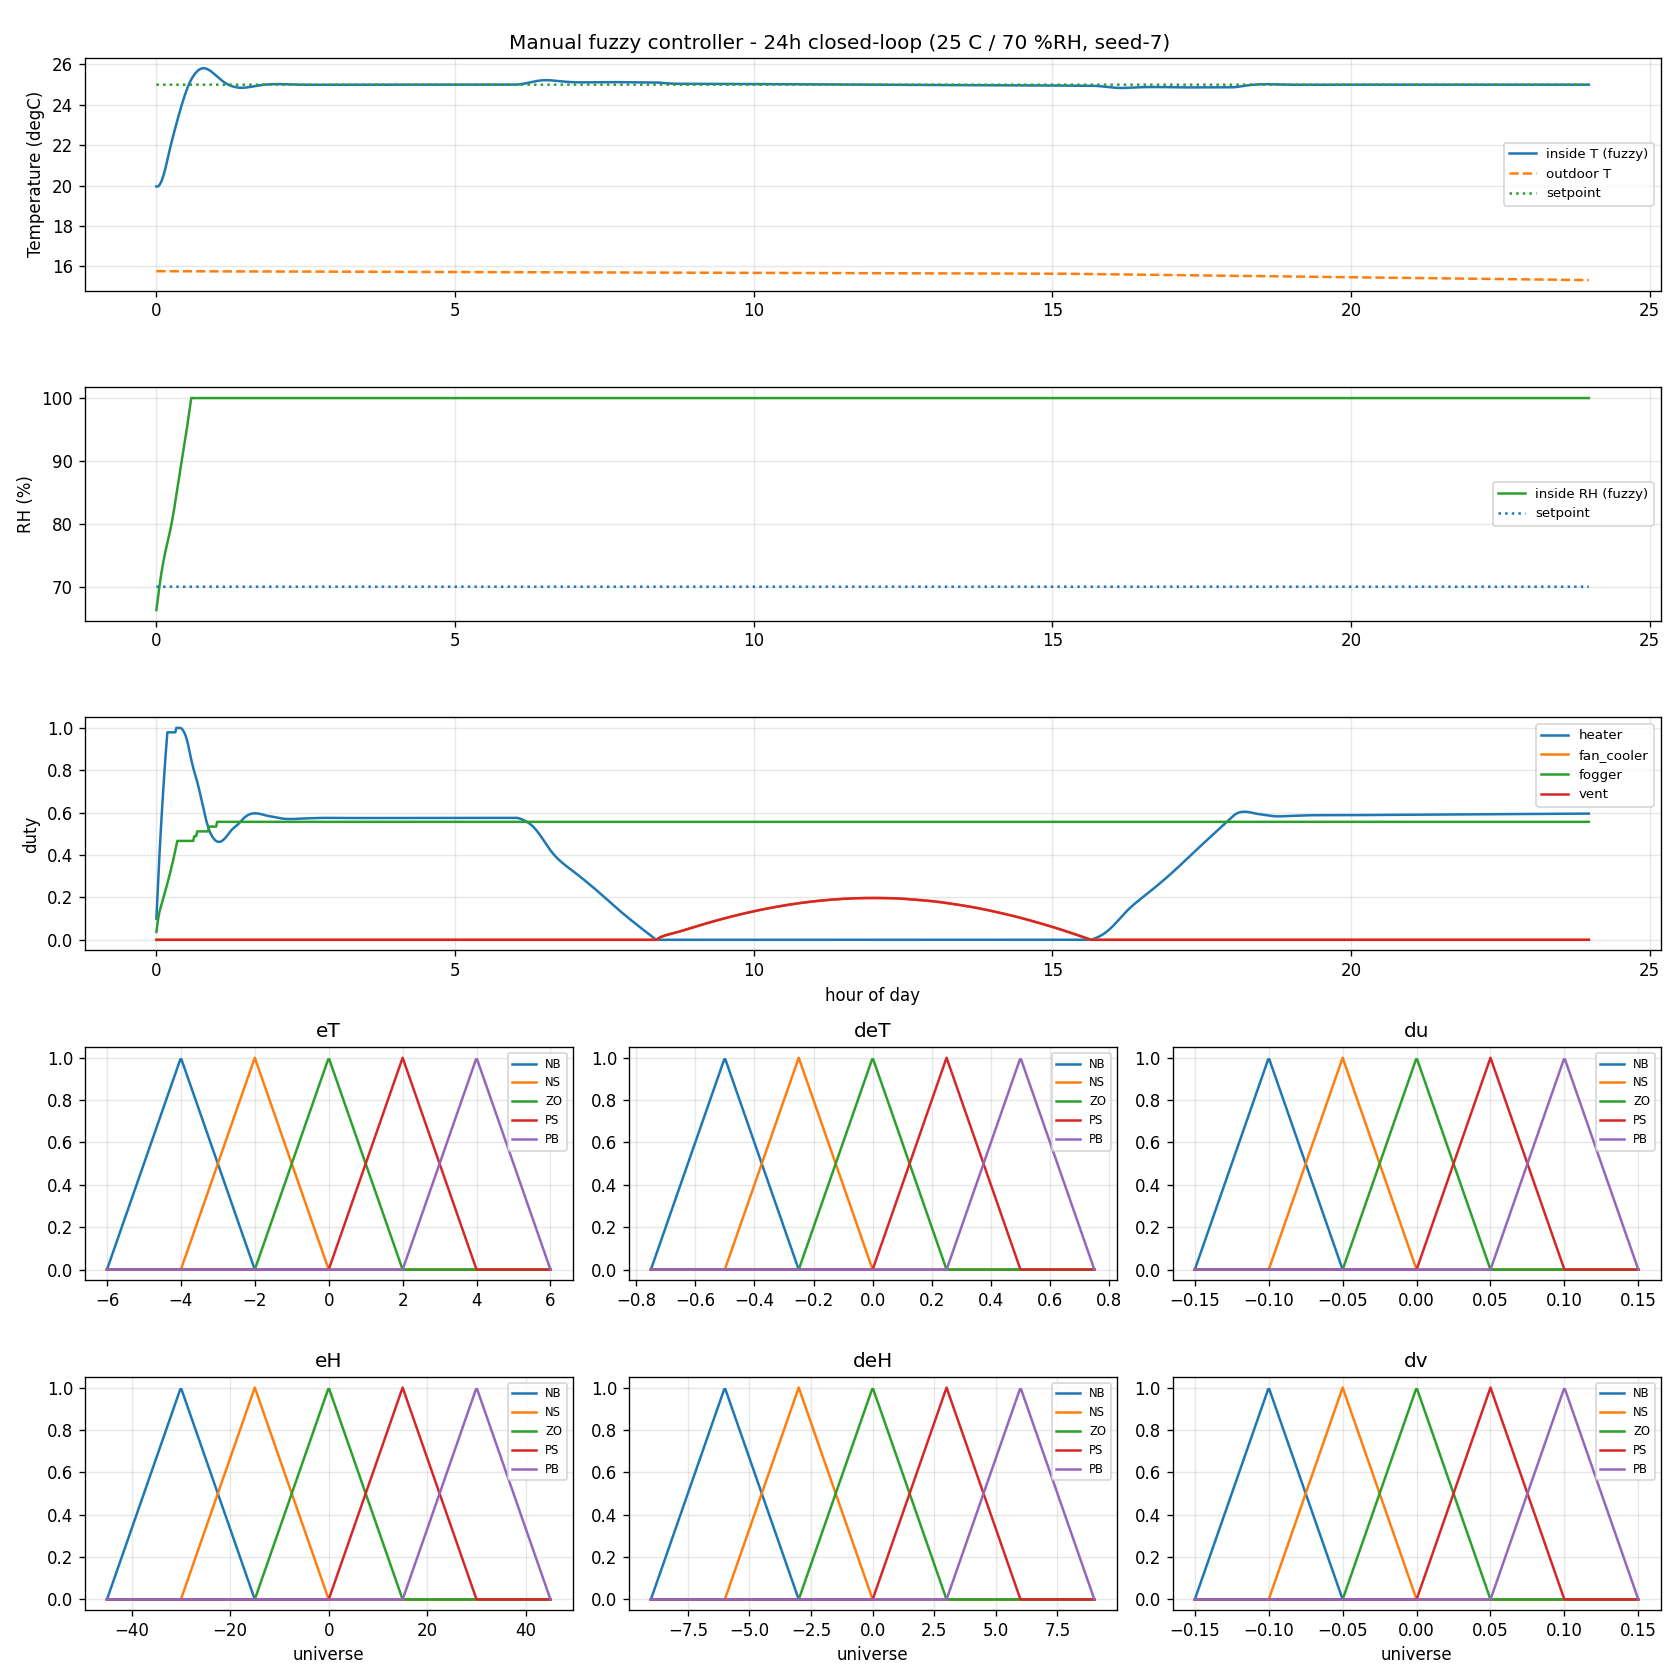
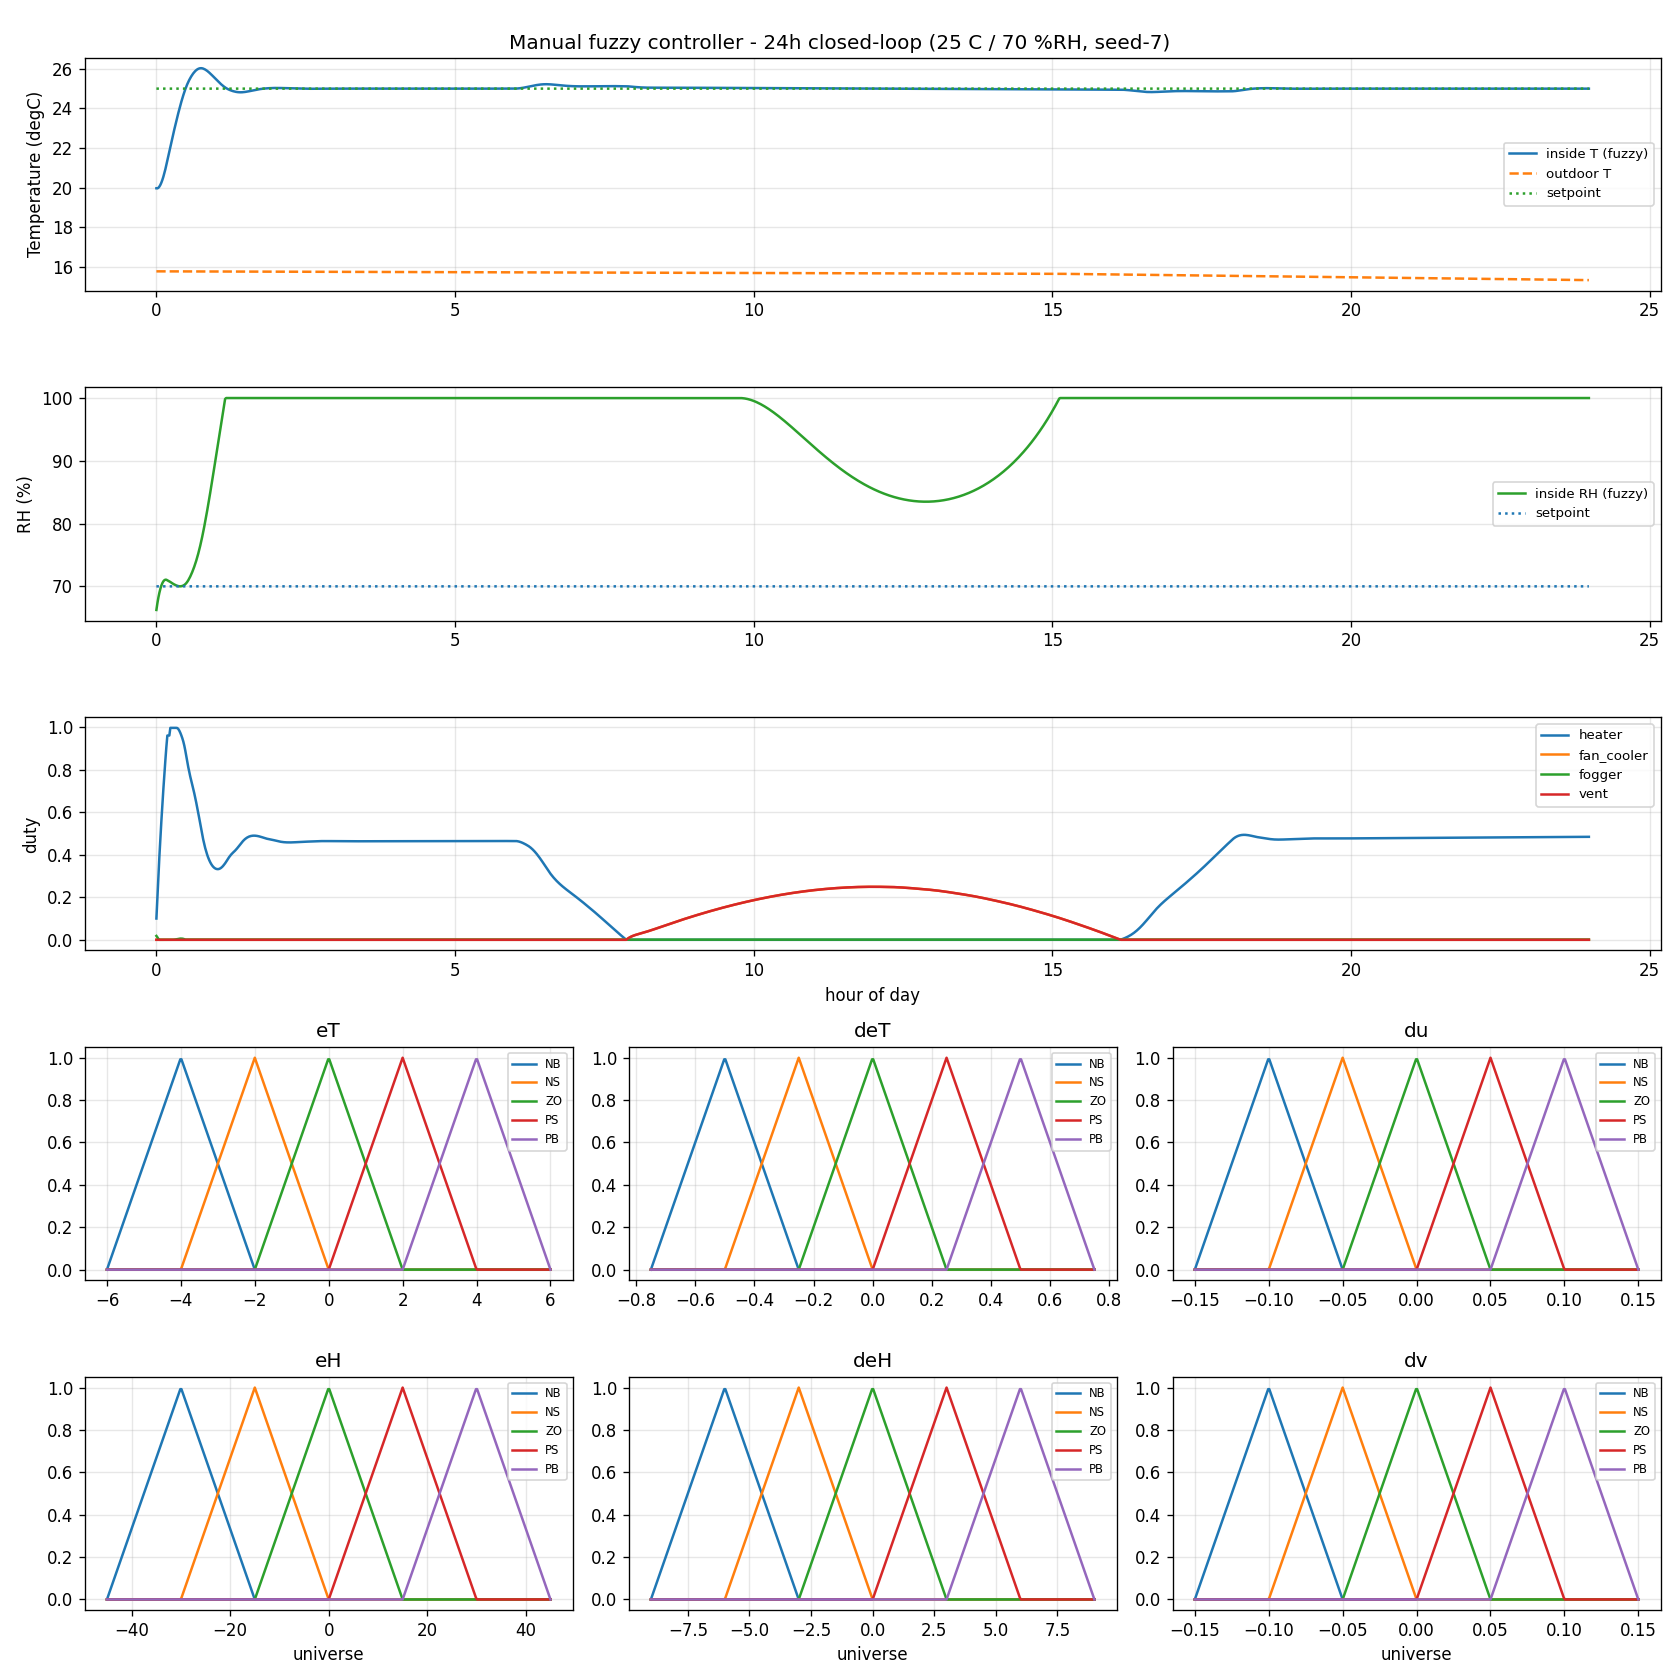
fix(03): WR-01 RH defuzz grid to [-1,1] so fogger ramps down + regression test

diff --git a/tests/test_fuzzy_controller.py b/tests/test_fuzzy_controller.py
@@ -129,7 +129,26 @@ def test_centroid_defuzz():
     assert du(-5.0, 0.0) < -0.05, du(-5.0, 0.0)  # strong cool when far hot
     assert abs(du(0.0, 0.0)) < 1e-9             # equilibrium holds
     assert du(2.0, 0.0) == du(2.0, 0.0)         # bit-identical reruns
-    assert du(2.0, 0.0) == du(2.0, 0.0) and du(-3.0, 0.25) == du(-3.0, 0.25)
+    assert du(-3.0, 0.25) == du(-3.0, 0.25)     # (IN-02: no duplicated line)
+
+
+def test_fogger_ramps_down():
+    # WR-01: dv must go negative on soak so the fogger can ramp DOWN, and the
+    # equilibrium dv must be exactly 0.0 (full ZO triangle) — not a ratchet.
+    from src.fuzzy_controller import fuzzy_step
+
+    st = None
+    for _ in range(30):
+        act, st = fuzzy_step(25.0, 50.0, 25.0, 70.0, st)   # dry: charge fogger
+    high = act["fogger"]
+    assert high > 0.0, act
+    for _ in range(60):
+        act, st = fuzzy_step(25.0, 95.0, 25.0, 70.0, st)   # soaked: dry back
+    assert act["fogger"] < high, (high, act)
+    st = None
+    for _ in range(120):
+        act, st = fuzzy_step(25.0, 70.0, 25.0, 70.0, st)   # equilibrium: hold
+    assert act["fogger"] < 0.05, act
 
 
 def _fuzzy_unguarded(T_C, rh_pct, T_sp=25.0, RH_sp=70.0, state=None, dt=60.0):

diff --git a/src/fuzzy_controller.py b/src/fuzzy_controller.py
@@ -77,7 +77,7 @@ def fuzzy_step(T_C, rh_pct, T_sp=25.0, RH_sp=70.0, state=None, dt=60.0, mfs=FUZZ
                mfs["du"]["centers"], mfs["du"]["widths"], -1.0, 1.0)
     dv = infer(eH, dH, mfs["eH"]["centers"], mfs["eH"]["widths"],
                mfs["deH"]["centers"], mfs["deH"]["widths"],
-               mfs["dv"]["centers"], mfs["dv"]["widths"], 0.0, 1.0)
+               mfs["dv"]["centers"], mfs["dv"]["widths"], -1.0, 1.0)  # WR-01: full grid so dv can go negative (accumulation still clipped to [0,1] below)
     u_new = st['uT'] + du
     if not ((u_new > 1.0 and eT > 0) or (u_new < -1.0 and eT < 0)):  # AW freeze (PID convention)
         st['uT'] = float(np.clip(u_new, -1.0, 1.0))
